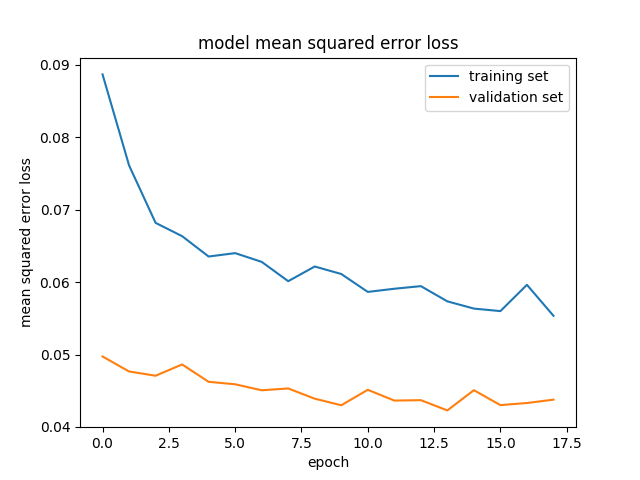
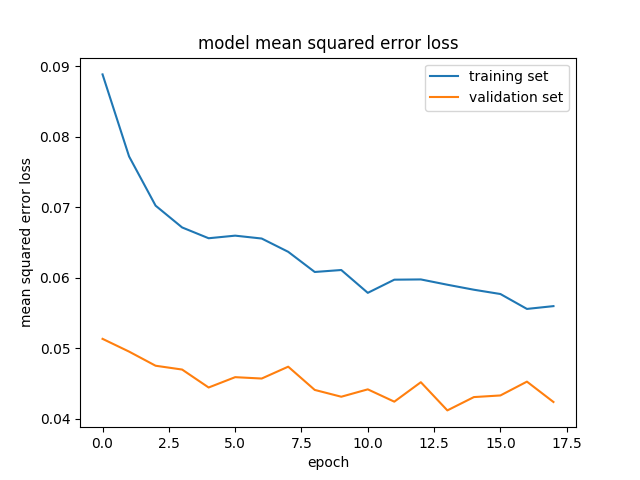
more info in the writeup

diff --git a/README.md b/README.md
@@ -129,9 +129,8 @@ early stopping with patience of 3 to decide the optimal number of epochs (which 
 
 #### Creation of the Training / Validation Set & Training Process
 
-We use the `jungle` track and the `lake` track for training and validation and we keep the `mountain` track as an independent 
-test to assess the generalization capabilities of this model set.
-
+I used the `jungle` track and the `lake` track for training and validation and kept the `mountain` track as an independent 
+test set to assess the generalization capabilities of the model.
 
 To capture good driving behavior, I first recorded two datasets each one consisting of one full 
 lap on the lake track while using center lane driving.   I then recorded two other datasests the vehicle recovering from the 
@@ -139,8 +138,22 @@ left side and right sides of the road back to center so that the vehicle would l
 
 Then I repeated this process on the mountain track two in order to get more data points.
 
-From a look at the distribution of twe steering angles for these two tracks (shown below) is evident that the Jungle track 
-is much more challenging with a  much larger steering agle required. Also, the Lake track has a bias 
+To obtain an indipendent validation set, my first choice was to split data randomly. However, I noted that the error do 
+not correlate well with driving performance with this procedure, because in the data there are many frames which look very
+similar and hence training and validation set may not be completely independent. Hence I decided to record two additional
+laps for each track (Jungle and Lake) and keep these runs exclusively for validation. In total I have the following (the fact
+that training and validation have exactly the same size is just random):
+
+```
+Train samples : 24324
+Validation samples  : 24324
+Number of training steps 95
+Number of validation steps 95
+```
+
+
+From a look at the distribution of the steering angles for these two tracks (shown below) is evident that the Jungle track 
+is much more challenging with a  much larger steering angle required. Also, the Lake track has a bias 
 towards negative steering angles.
 
 ![alt text](./plots/angles_distribution.png)
